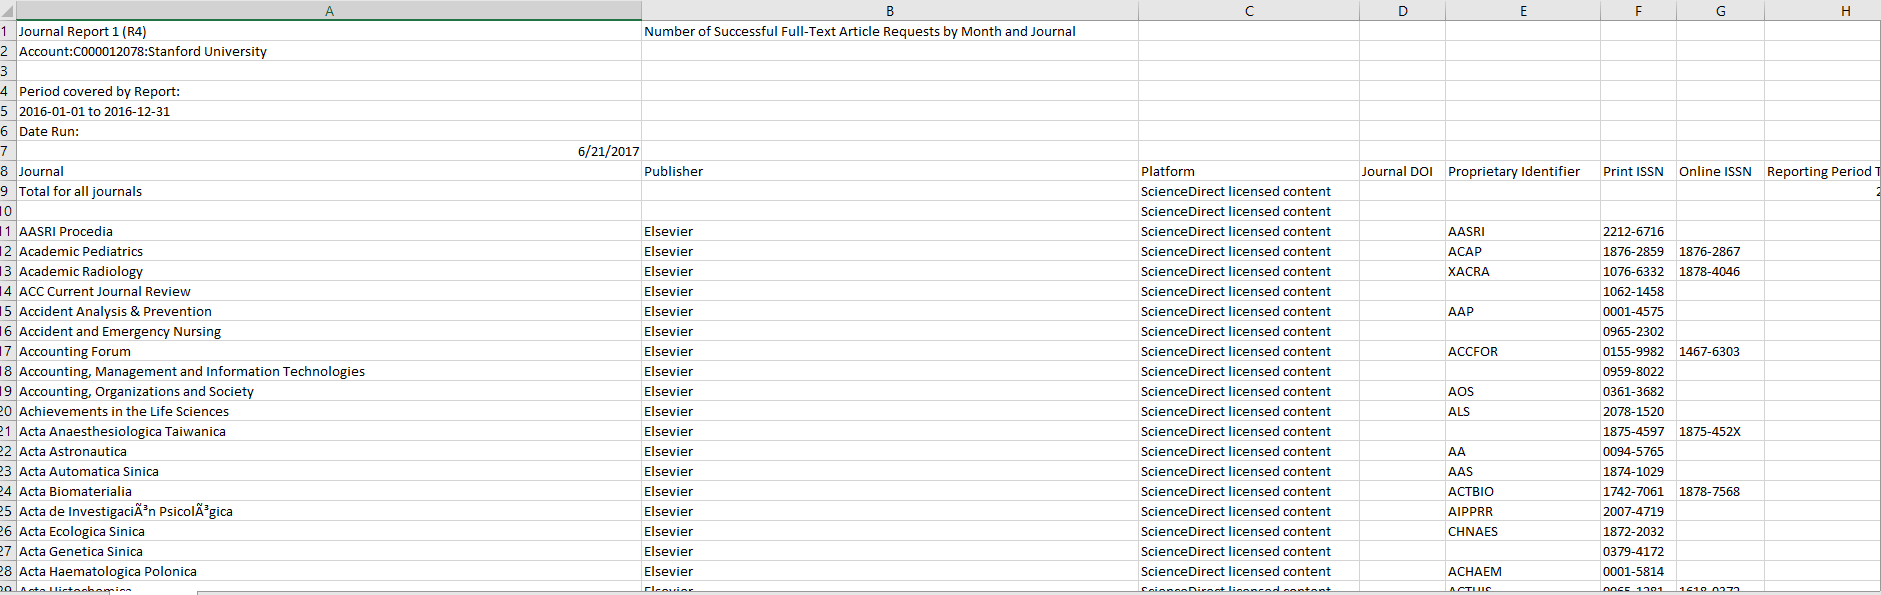
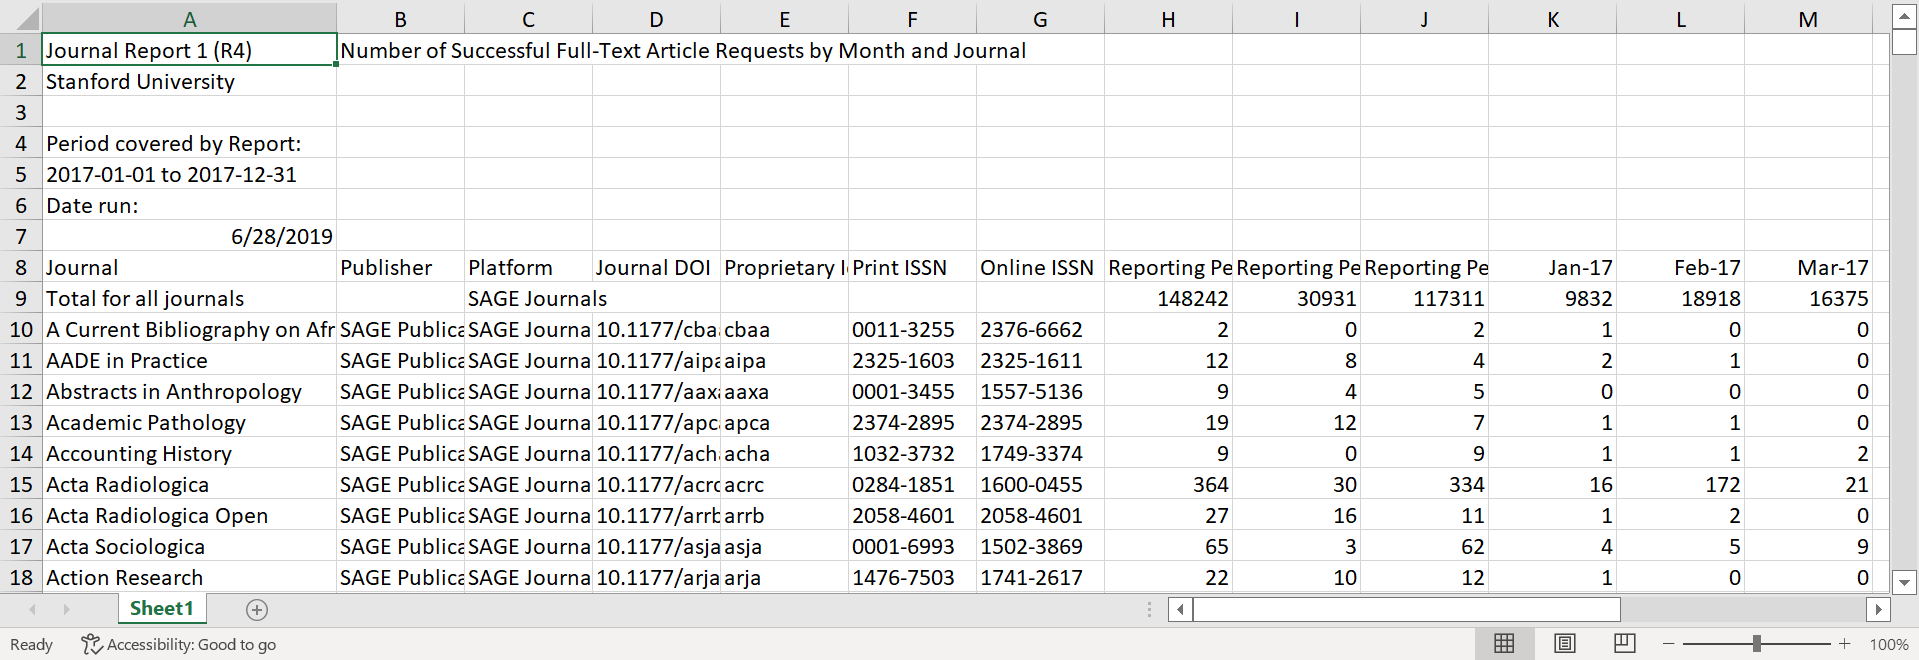
Equivalence chart of COUNTER reports

Changed region(s): [[0.0, 0.0, 1.0, 0.9983], [0.3392, 0.2723, 0.37, 0.3025], [0.3083, 0.242, 0.3392, 0.2723]]

diff --git a/README.md b/README.md
@@ -164,4 +164,12 @@ Please visit their site for more information on the scope of COUNTER
 
 - Functools: provides useful features that make it easier to work with high order functions (a function that returns a function or takes another function as an argument ). With these features, you can reuse or extend the utility of your functions or callable object without rewriting them.
 
-##### Journal Report 1 R4 -
+##### Journal Report - Full Text Article Requests
+
+###### Journal Report 1 (R4)
+
+- Notable Columns: Journal (Title) | Publisher | Print ISSN | Reporting Period Total | Reporting Period HTML | Reporting Period PDF | Jan YY to Dec YY
+
+
+
+- The first 7 rows are general information which is not pertinent to our analysis so we must skip these rows. Additionally, some reports have a total row which is the sum of all the requests. We will use i
